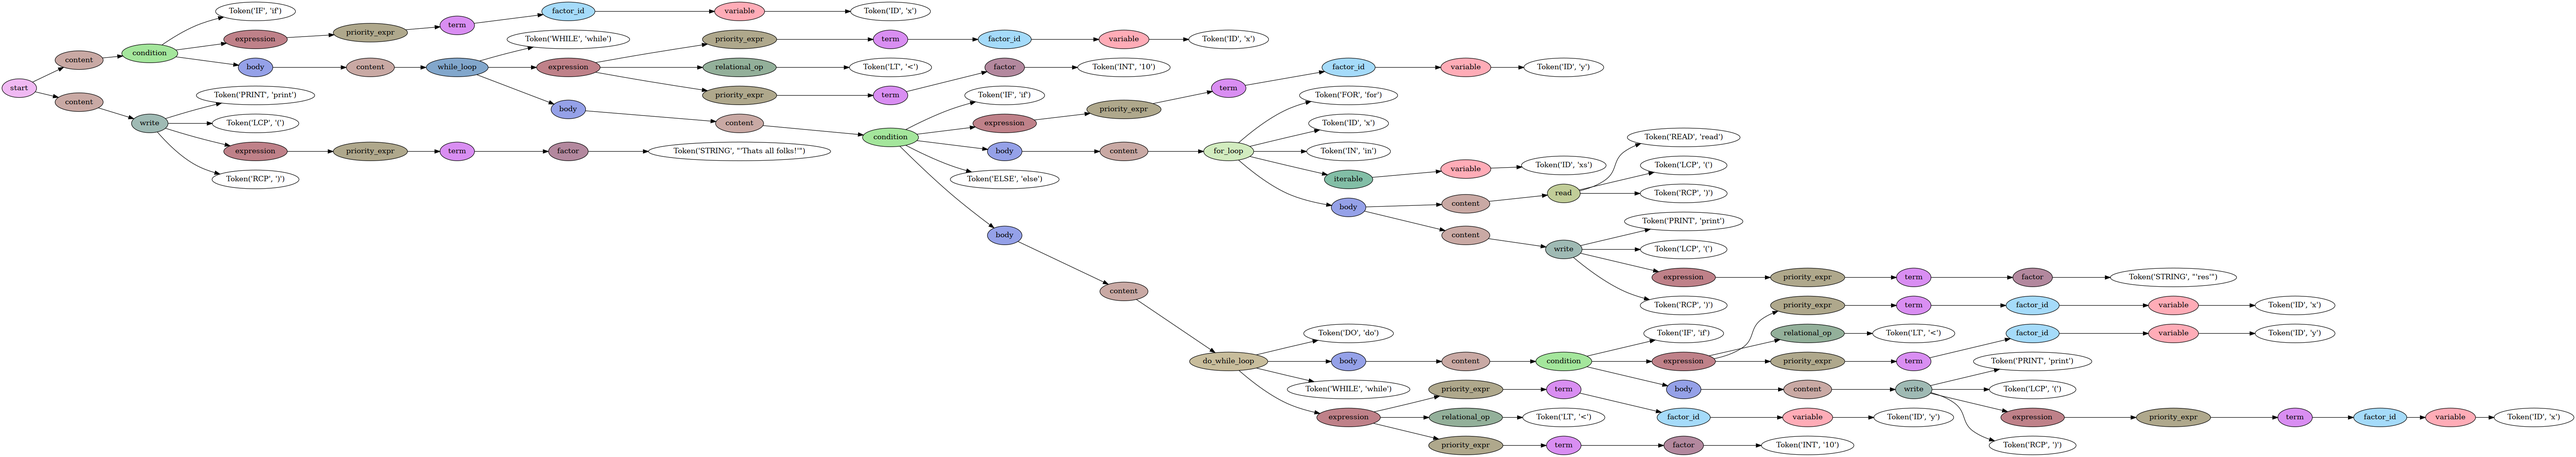
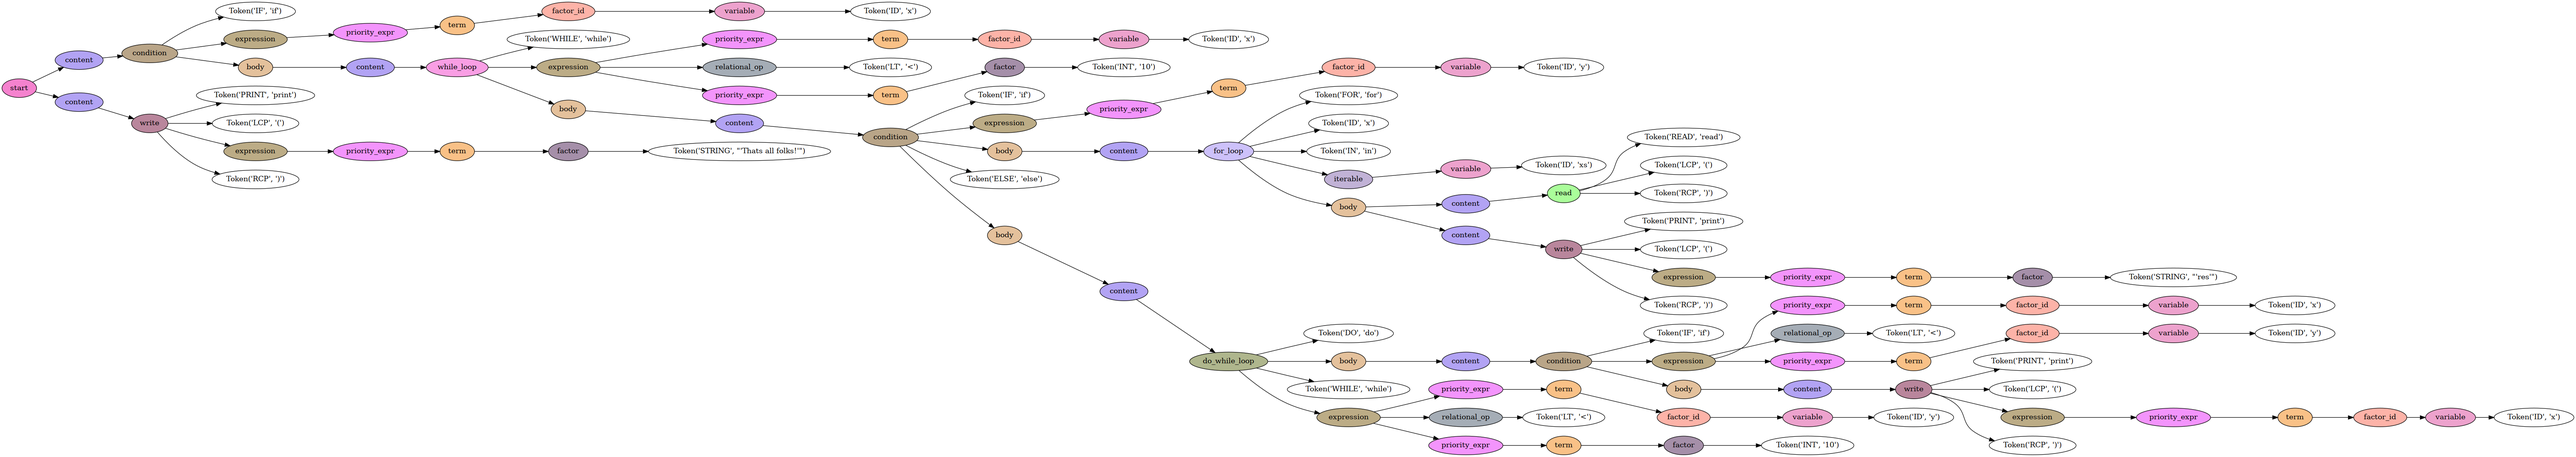
app with cfg support

diff --git a/templates/typethong-info.html b/templates/typethong-info.html
@@ -5,7 +5,6 @@
     <title>typethong</title>
     <link rel="icon" href="images/logo.webp" />
     <link rel="stylesheet" href="static/styles/w3.css"/>
-    <link rel="stylesheet" href="../static/styles/w3.css"/>
     <link href='https://fonts.googleapis.com/css?family=JetBrains Mono' rel='stylesheet'>
 
     <style>
@@ -88,8 +87,18 @@
                         
                         <pre style="max-height: 400px; overflow-y: scroll;">
                             <code id="custom-code" style="padding: 10px; color: white">
-int x = 2
-int y = x * 2</code>
+if x:
+    while x < 10:
+        if y:
+            for x in xs:
+                read()
+                print('res')
+        else:
+            do:
+                if x < y:
+                    print(x)
+            while y < 10
+print('Thats all folks!')</code>
                         </pre>
                     </div>
 
@@ -136,13 +145,7 @@ int y = x * 2</code>
                                 <tr>
                                     <td>x</td>
                                     <td>global</td>
-                                    <td>int</td>
-                                </tr>
-                                
-                                <tr>
-                                    <td>y</td>
-                                    <td>global</td>
-                                    <td>int</td>
+                                    <td>None</td>
                                 </tr>
                                 
                             </tbody>
@@ -153,7 +156,7 @@ int y = x * 2</code>
                 
                 <div class="w3-col w3-padding-large ed scrollable-table">
                     <div class = "w3-padding-large" style="color: white; text-align: center;">
-                        <h2 style="font-size: 30px;">There are 2 attributions, 0 reads, 0 writes, 0 conditionals and 0 cycles</h2>
+                        <h2 style="font-size: 30px;">There are 0 attributions, 1 reads, 3 writes, 3 conditionals and 3 cycles</h2>
                     </div>
                     <table class="w3-table w3-centered ed" style="background-color:#0d1117; color: white;">
                         <thead style="background-color: #22262ca3; ">
@@ -165,8 +168,8 @@ int y = x * 2</code>
                         <tbody>
                             
                             <tr>
-                                <td>int</td>
-                                <td>2</td>
+                                <td>None</td>
+                                <td>1</td>
                             </tr>
                             
                         </tbody>
@@ -186,6 +189,24 @@ int y = x * 2</code>
                         <p style="font-size: 30px; font-weight: 800;">ERRORS</p>
                     </header>
                     <div class="w3-code  scrollable-table" id="error-results" style="max-height: 500px; overflow-y: scroll; color: white; background-color: #0d1117;">
+                        
+                        <h5>[ERROR] Variable x not declared.</h5>
+                        
+                        <h5>[ERROR] Variable x not declared.</h5>
+                        
+                        <h5>[ERROR] Variable y not declared.</h5>
+                        
+                        <h5>[ERROR] Variable xs not declared.</h5>
+                        
+                        <h5>[WARNING] Variable x not initialized.</h5>
+                        
+                        <h5>[ERROR] Variable y not declared.</h5>
+                        
+                        <h5>[WARNING] Variable x not initialized.</h5>
+                        
+                        <h5>[ERROR] Variable y not declared.</h5>
+                        
+                        <h5>[global] [WARNING] Variable x declared but never used.</h5>
                         
                     </div>
                 </div>
@@ -238,7 +259,15 @@ int y = x * 2</code>
                 </div>
             </div>
         </div>
-        
+        <div name="image" class="w3-row w3-center w3-padding-64 ">
+            <header>
+            <h1 class="verycoolshadow w3-padding" style="color: #DCDCDC;
+                                                         text-align: center;
+                                                         font-size: 30px;
+                                                         font-weight: 800;">CONTROL FLOW GRAPH</h1>
+            </header>
+            <img src="/static/cfg/cfg.png" alt="CFG" style="">
+        </div>
         <footer class="w3-container w3-padding" style="background-color: #010409;">
         </footer>
     </div>

diff --git a/templates/ttg-template.html b/templates/ttg-template.html
@@ -236,9 +236,12 @@
         </div>
         <div name="image" class="w3-row w3-center w3-padding-64 ">
             <header>
-                <h1 class="verycoolshadow w3-padding" style="color: #DCDCDC;">CONTROL FLOW GRAPH</h1>
+            <h1 class="verycoolshadow w3-padding" style="color: #DCDCDC;
+                                                         text-align: center;
+                                                         font-size: 30px;
+                                                         font-weight: 800;">CONTROL FLOW GRAPH</h1>
             </header>
-            <img src="cornell_box_VI_rendered.png" alt="Cornell Box" style="width:85%;">
+            <img src="/static/cfg/cfg.png" alt="CFG">
         </div>
         <footer class="w3-container w3-padding" style="background-color: #010409;">
         </footer>

diff --git a/interpreter.py b/interpreter.py
@@ -656,8 +656,8 @@ class DicInterpreter(Interpreter):
                 os.makedirs("outputs/cfg")
 
             # Save the graph as an image file (PNG format in this case) in outputs folder
-            dot_graph.render(f"{self._scope}",
-                             directory="outputs/cfg",
+            dot_graph.render(f"cfg",
+                             directory="static/cfg/",
                              format="png",
                              cleanup=True)
 
